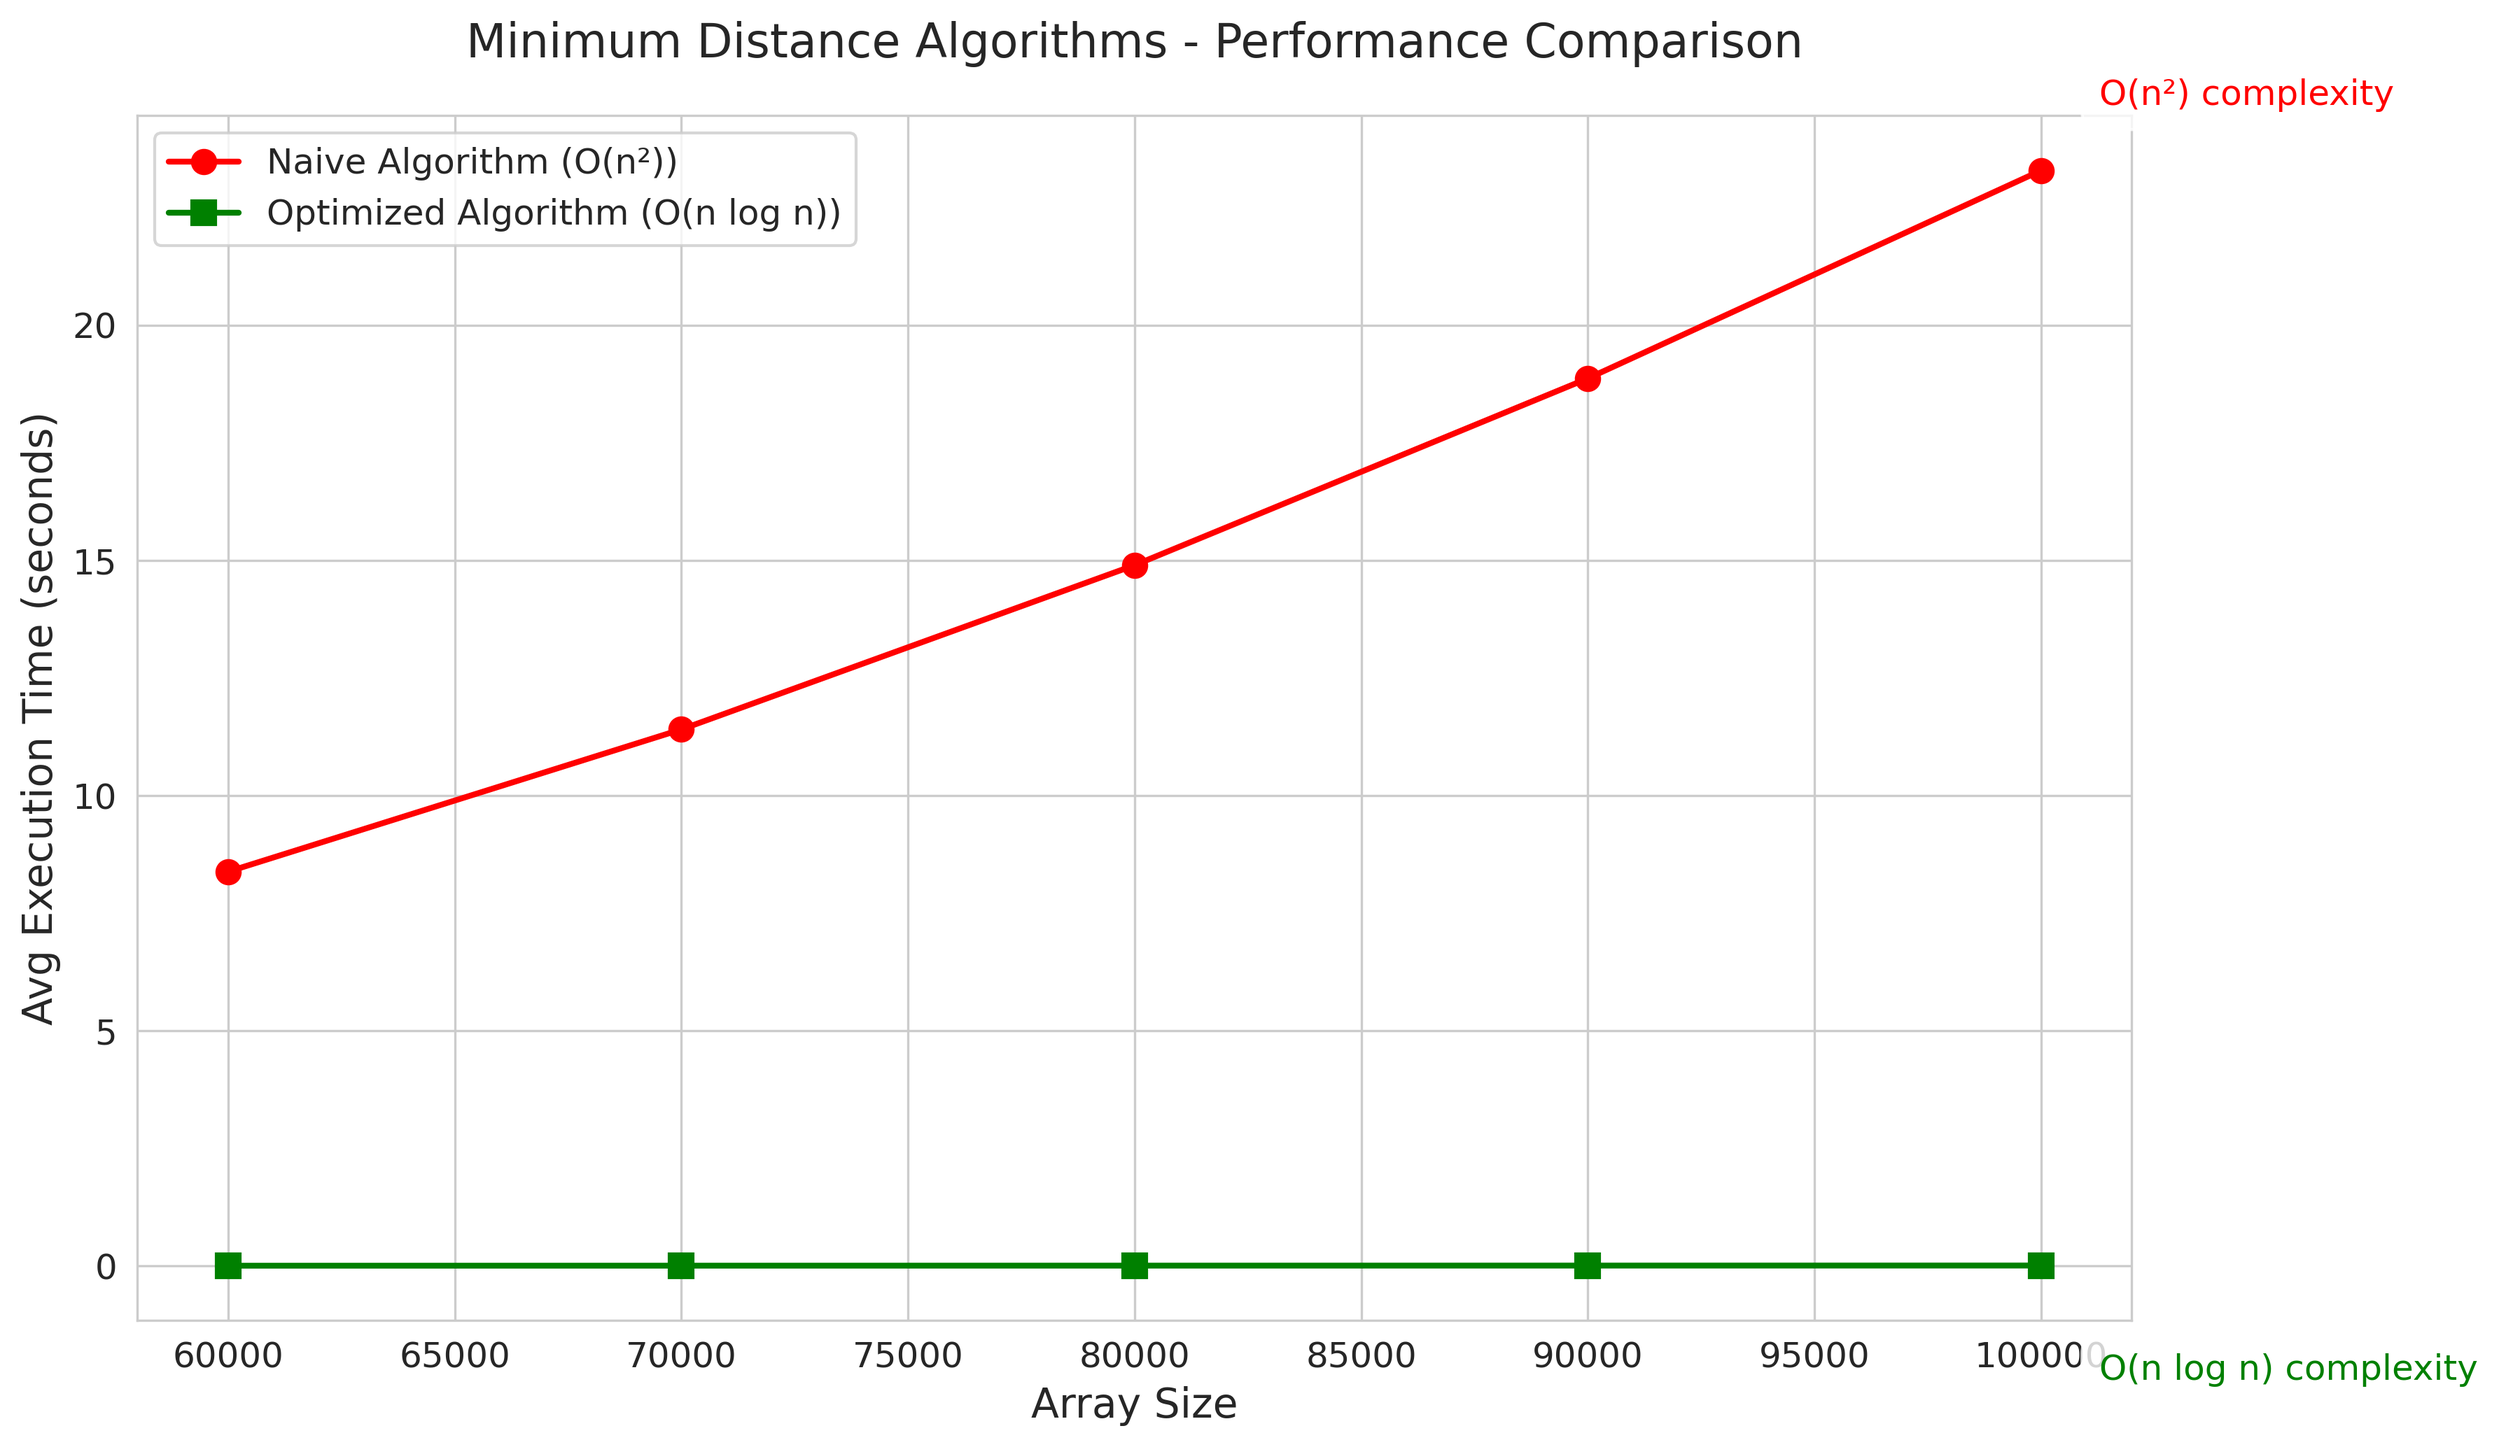
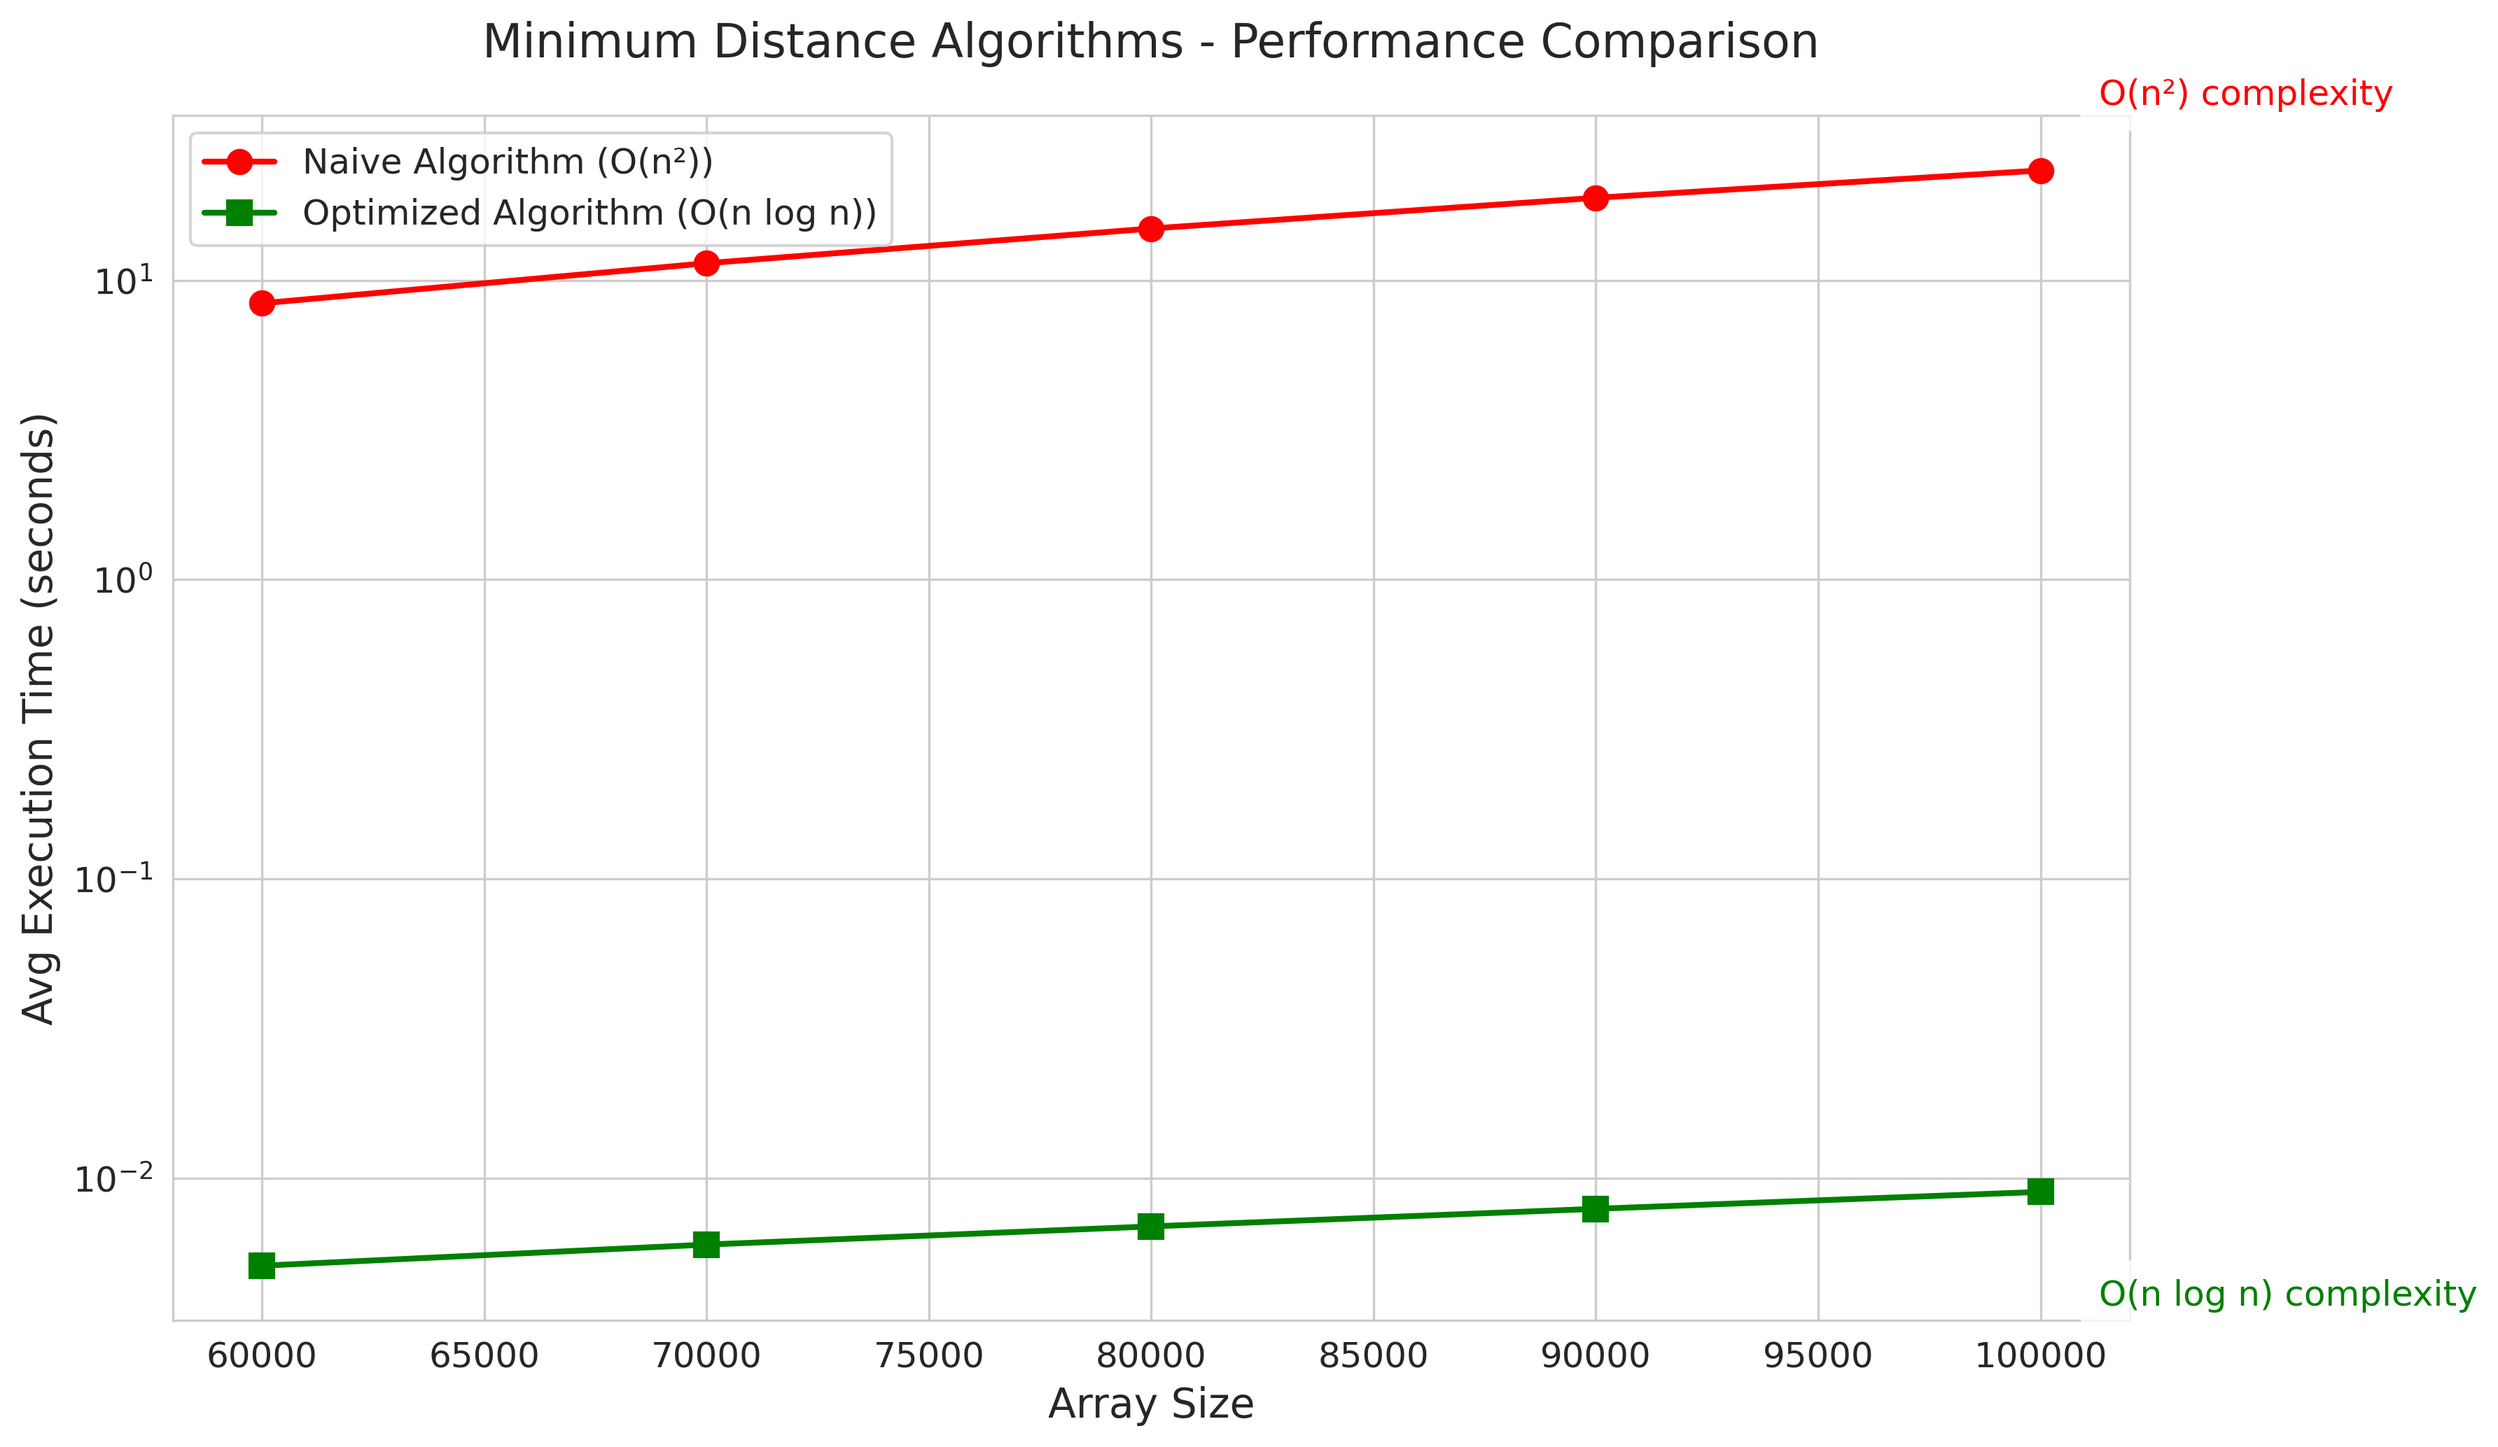
log scale, and png of the plot

diff --git a/plot.py b/plot.py
@@ -23,7 +23,7 @@ plt.plot(data['Size'], data['Optimized_Avg_Time'],
 plt.title('Minimum Distance Algorithms - Performance Comparison', fontsize=16, pad=20)
 plt.xlabel('Array Size', fontsize=14)
 plt.ylabel('Avg Execution Time (seconds)', fontsize=14)
-plt.yscale('linear')  # Logarithmic scale to better show the difference
+plt.yscale('log')  # Logarithmic scale to better show the difference
 plt.xticks(fontsize=12)
 plt.yticks(fontsize=12)
 plt.legend(fontsize=12)
